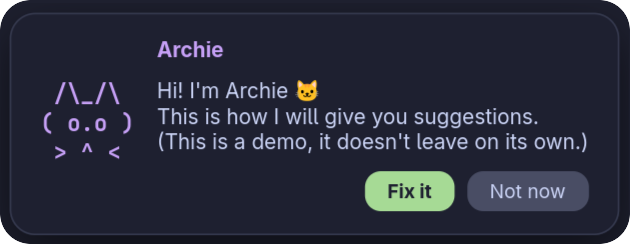
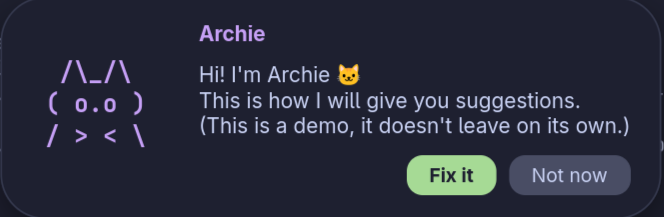
Updated style and Readme

diff --git a/archie.py b/archie.py
@@ -52,9 +52,31 @@ CHECK_MODE_TIMEOUT = 30     # s visible en mode 'check'
 FADE_IN_MS = 260
 FADE_OUT_MS = 180
 
-CAT = r""" /\_/\
-( o.o )
- > ^ <"""
+# --------------------------------------------------------------------------- #
+#  Expressions de l'Archie (Gat animat - Simètric i Cuqui)
+# --------------------------------------------------------------------------- #
+CAT_NORMAL = r"""  /\_/\
+ ( o.o )
+ / > < \ """
+
+CAT_BLINK = r"""  /\_/\
+ ( -.- )
+ / > < \ """
+
+CAT_HAPPY = r"""  /\_/\
+ ( ^.^ )
+ / > < \ """
+
+CAT_SURPRISED = r"""  /\_/\
+ ( O.O )
+ / > < \ """
+
+CAT_SLEEP = r"""  /\_/\
+ ( z.z )
+ / > < \ """
+
+CAT = CAT_NORMAL  # Per defecte
+
 
 CSS = b"""
 window { background: transparent; }
@@ -62,7 +84,7 @@ window { background: transparent; }
 .bubble {
   background-color: #1e2030;
   border: 1px solid #363a4f;
-  border-radius: 16px;
+  border-radius: 28px;
   padding: 14px 18px;
   margin: 6px;
   box-shadow: 0 10px 30px rgba(0, 0, 0, 0.55);
@@ -71,8 +93,27 @@ window { background: transparent; }
 .cat {
   color: #c6a0f6;
   font-family: monospace;
-  font-size: 14px;
+  font-size: 15px;
   font-weight: bold;
+  margin-right: 10px;
+  animation: float 3s ease-in-out infinite;
+}
+
+@keyframes float {
+  0% { transform: translateY(0px); }
+  50% { transform: translateY(-4px); }
+  100% { transform: translateY(0px); }
+}
+
+.shake {
+  animation: shake 0.5s cubic-bezier(.36,.07,.19,.97) both;
+}
+
+@keyframes shake {
+  10%, 90% { transform: translate3d(-1px, 0, 0); }
+  20%, 80% { transform: translate3d(2px, 0, 0); }
+  30%, 50%, 70% { transform: translate3d(-4px, 0, 0); }
+  40%, 60% { transform: translate3d(4px, 0, 0); }
 }
 
 .msg { color: #cad3f5; font-size: 13px; }
@@ -91,6 +132,11 @@ button.fix { background-color: #a6da95; color: #1e2030; font-weight: bold; }
 button.fix:hover { background-color: #b6e6a6; }
 button.later { background-color: #494d64; color: #cad3f5; }
 button.later:hover { background-color: #5b6078; }
+
+button:disabled {
+  opacity: 0.5;
+  filter: grayscale(100%);
+}
 """
 
 
@@ -577,6 +623,8 @@ def run_gui(mode: str) -> int:
         def do_activate(self) -> None:
             if self.win is None:
                 self._build_ui()
+                # Animació del gat: parpelleig i estats
+                GLib.timeout_add(3000, self._animate_cat)
             if self.dbus is None:
                 threading.Thread(target=self._start_dbus, daemon=True).start()
             self.hold()
@@ -598,6 +646,31 @@ def run_gui(mode: str) -> int:
             self.run_checks()
             GLib.timeout_add_seconds(self._get_config("check_interval", CHECK_INTERVAL), self._periodic_check)
             return GLib.SOURCE_REMOVE
+
+        def _animate_cat(self) -> bool:
+            if not self.win:
+                return GLib.SOURCE_REMOVE
+            
+            # Si no hi ha res actiu o és informatiu, el gat està relaxat
+            import random
+            
+            current_label = self.cat_label.get_label()
+            
+            # Si està pampalluguejant, obre els ulls
+            if current_label == CAT_BLINK:
+                self.cat_label.set_label(CAT_NORMAL)
+                return True
+            
+            # Si hi ha alerta crítica, ulls grans
+            if self.current and getattr(self.current, "critical", False):
+                self.cat_label.set_label(CAT_SURPRISED)
+                return True
+
+            # Parpelleig aleatori (només si està normal)
+            if current_label == CAT_NORMAL and random.random() < 0.3:
+                self.cat_label.set_label(CAT_BLINK)
+            
+            return True
 
         # -- UI ------------------------------------------------------------ #
         def _build_ui(self) -> None:
@@ -631,10 +704,10 @@ def run_gui(mode: str) -> int:
             self.bubble = Gtk.Box(orientation=Gtk.Orientation.HORIZONTAL, spacing=14)
             self.bubble.add_css_class("bubble")
 
-            cat = Gtk.Label(label=CAT)
-            cat.add_css_class("cat")
-            cat.set_valign(Gtk.Align.CENTER)
-            self.bubble.append(cat)
+            self.cat_label = Gtk.Label(label=CAT_NORMAL)
+            self.cat_label.add_css_class("cat")
+            self.cat_label.set_valign(Gtk.Align.CENTER)
+            self.bubble.append(self.cat_label)
 
             right = Gtk.Box(orientation=Gtk.Orientation.VERTICAL, spacing=10)
             right.set_valign(Gtk.Align.CENTER)
@@ -807,6 +880,18 @@ def run_gui(mode: str) -> int:
             self.current = check
             self.showing = True
             self.msg_label.set_text(check.display_message)
+            self.fix_btn.set_sensitive(True)
+            self.later_btn.set_sensitive(True)
+            
+            # El gat reacciona a la nova alerta
+            if getattr(check, "critical", False):
+                self.cat_label.set_label(CAT_SURPRISED)
+                self.bubble.add_css_class("shake")
+                # Treiem la classe després d'un segon per poder-la repetir
+                GLib.timeout_add(1000, lambda: self.bubble.remove_css_class("shake") or False)
+            else:
+                self.cat_label.set_label(CAT_NORMAL)
+
             if check.id not in ("all_ok", "demo"):
                 self._shown_times[check.id] = time.time()
             
@@ -905,28 +990,41 @@ def run_gui(mode: str) -> int:
 
         # -- botons -------------------------------------------------------- #
         def on_fix(self, _btn) -> None:
+            if not self.fix_btn.get_sensitive():
+                return
             self._cancel_autohide()
             c = self.current
-            if c is not None and self.mode != "demo" and c.run_command:
+            if c is None:
+                self._hide()
+                return
+
+            if self.mode != "demo" and c.run_command:
                 is_ghost = getattr(c, "_is_ghost", False)
                 ok = monitor.run_fix(c.run_command, silent=is_ghost)
                 if is_ghost:
-                    # En ghost, "Arregla-ho" és en realitat "Desfés".
                     bn = brain.Brain(self.state)
                     if getattr(c, "_learned", False):
-                        bn.record_feedback(c.id, accepted=False)  # no ho automatitzis més
+                        bn.record_feedback(c.id, accepted=False)
                     bn.clear_ghost(getattr(c, "_ghost_id", c.id))
                 else:
                     if ok and c.once:
                         self.state.mark_applied(c.id)
-                    # Període de gràcia: ja hi has actuat, no insisteixis aviat
-                    # encara que el detect torni a saltar.
                     self.state.snooze(c.id, GRACE_AFTER_FIX)
                     brain.Brain(self.state).record_feedback(c.id, accepted=True)
-                c._status = "unknown"  # força reavaluació si torna a sortir
-            self._hide()
+            
+            # Gat feliç (funciona tant en mode real com en demo!)
+            self.cat_label.set_label(CAT_HAPPY)
+            self.fix_btn.set_sensitive(False)
+            self.later_btn.set_sensitive(False)
+            if hasattr(c, "_status"):
+                c._status = "unknown"
+            
+            # Esperem 3 segons perquè vegis el gat feliç
+            GLib.timeout_add_seconds(3, lambda: self._hide() or False)
 
         def on_later(self, _btn) -> None:
+            if not self.later_btn.get_sensitive():
+                return
             self._cancel_autohide()
             c = self.current
             if c is not None and self.mode != "demo":

diff --git a/README.md b/README.md
@@ -7,12 +7,14 @@ and two buttons: **Fix it** and **Not now**.
 The rest of the time it is invisible. It never bothers you more than once every 15 minutes.
 
 ```
- /\_/\
-( o.o )   "Swappiness too high for SSD (>10). Reduce it to 10?"
- > ^ <      [ Fix it ]  [ Not now ]
+  /\_/\
+ ( o.o )   "Swappiness too high for SSD (>10). Reduce it to 10?"
+ / > < \     [ Fix it ]  [ Not now ]
 ```
 
-![Archie Example](assets/archie_example.png)
+<p align="center">
+  <img src="assets/archie_example.png" alt="Archie Example" style="border-radius: 28px;">
+</p>
 
 ## Commands
 